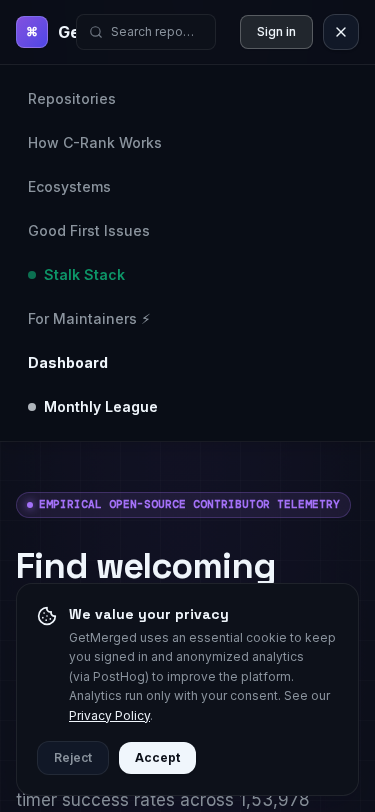
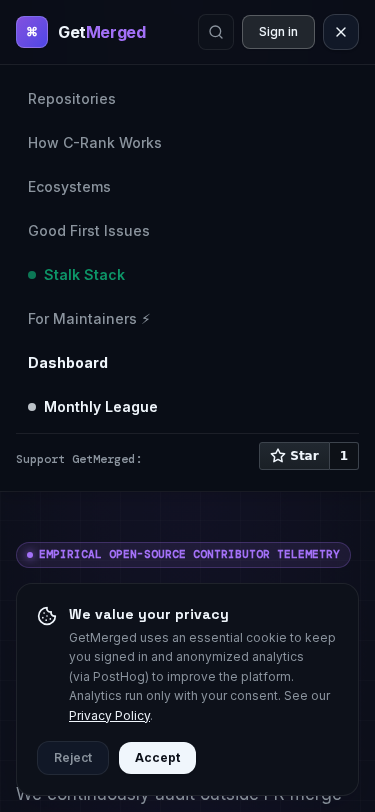
fix(ui): adopt official react-github-btn with live counts and fix mobile header branding overlap

diff --git a/frontend/src/components/Header.tsx b/frontend/src/components/Header.tsx
@@ -1,13 +1,13 @@
 "use client";
 
 import React, { useEffect, useState } from "react";
-import { Bookmark, Search, Menu, X, Star } from "lucide-react";
+import { Bookmark, Search, Menu, X } from "lucide-react";
 import { motion, AnimatePresence } from "framer-motion";
 import Link from "next/link";
 import { API_BASE_URL } from "@/lib/api";
 import { User } from "@/types/opendoor";
 import { NotificationBell } from "@/components/NotificationBell";
-import { GithubIcon } from "@/components/icons";
+import GitHubButton from "react-github-btn";
 import posthog from "posthog-js";
 import { AuthModal } from "@/components/AuthModal";
 
@@ -100,7 +100,7 @@ export function Header({ showSearchBar, onOpenSearch, searchQuery, placeholderTe
 
         {/* Floating Search Button */}
         {isSearchVisible && (
-          <div className="flex-1 min-w-[140px] sm:min-w-[180px] md:min-w-[220px] max-w-[280px] mx-2 shrink-0 sm:shrink">
+          <div className="hidden sm:flex flex-1 min-w-[140px] md:min-w-[180px] max-w-[280px] mx-2 shrink">
             <button
               type="button"
               onClick={handleOpenSearch}
@@ -112,7 +112,7 @@ export function Header({ showSearchBar, onOpenSearch, searchQuery, placeholderTe
                   {displayQuery || placeholderText || "Search repositories..."}
                 </span>
               </div>
-              <kbd className="hidden sm:inline-flex items-center gap-0.5 border border-[var(--border-subtle)] bg-[#21262D] px-1.5 py-0.5 rounded text-[10px] text-[var(--text-secondary)] font-mono shrink-0">
+              <kbd className="hidden md:inline-flex items-center gap-0.5 border border-[var(--border-subtle)] bg-[#21262D] px-1.5 py-0.5 rounded text-[10px] text-[var(--text-secondary)] font-mono shrink-0">
                 <span>⌘</span>K
               </kbd>
             </button>
@@ -120,20 +120,32 @@ export function Header({ showSearchBar, onOpenSearch, searchQuery, placeholderTe
         )}
 
         {/* Right Actions */}
-        <div className="flex items-center gap-2.5 shrink-0">
-          {/* Star on GitHub Button */}
-          <a
-            href="https://github.com/abhisheksoni27/getmerged"
-            target="_blank"
-            rel="noopener noreferrer"
-            title="Star GetMerged on GitHub"
-            onClick={() => posthog.capture("github_star_clicked", { source: "header" })}
-            className="hidden sm:inline-flex items-center gap-1.5 h-8 px-2.5 rounded-lg border border-[var(--border-subtle)] bg-[#0D111A] hover:bg-[#161B22] hover:border-[var(--border-strong)] text-[var(--text-secondary)] hover:text-[var(--text-primary)] transition-all text-xs font-mono group shrink-0"
-          >
-            <GithubIcon className="h-3.5 w-3.5" />
-            <span>Star</span>
-            <Star className="h-3 w-3 text-[#E3B341] fill-[#E3B341] group-hover:scale-110 transition-transform" />
-          </a>
+        <div className="flex items-center gap-2 sm:gap-2.5 shrink-0">
+          {/* Mobile Search Icon Button */}
+          {isSearchVisible && (
+            <button
+              type="button"
+              onClick={handleOpenSearch}
+              aria-label="Search repositories"
+              className="sm:hidden flex items-center justify-center h-9 w-9 rounded-lg border border-[var(--border-subtle)] bg-[#0D111A] text-[var(--text-secondary)] hover:text-[var(--text-primary)] transition-colors"
+            >
+              <Search className="h-4 w-4" />
+            </button>
+          )}
+
+          {/* Official GitHub Star Button (with live automatic count) */}
+          <div className="hidden sm:flex items-center h-8">
+            <GitHubButton
+              href="https://github.com/abhisheksoni27/getmerged"
+              data-color-scheme="no-preference: dark; light: dark; dark: dark;"
+              data-icon="octicon-star"
+              data-size="large"
+              data-show-count="true"
+              aria-label="Star abhisheksoni27/getmerged on GitHub"
+            >
+              Star
+            </GitHubButton>
+          </div>
 
           {authLoading ? (
             <div className="h-8 w-16 sm:w-20 rounded-lg bg-[var(--bg-elevated)] animate-pulse border border-[var(--border-subtle)]" />
@@ -270,22 +282,19 @@ export function Header({ showSearchBar, onOpenSearch, searchQuery, placeholderTe
                 <span className="w-2 h-2 rounded-full bg-[var(--color-primary)] animate-pulse" />
                 Monthly League
               </Link>
-              <a
-                href="https://github.com/abhisheksoni27/getmerged"
-                target="_blank"
-                rel="noopener noreferrer"
-                onClick={() => {
-                  posthog.capture("github_star_clicked", { source: "mobile_menu" });
-                  setMobileMenuOpen(false);
-                }}
-                className="px-3 py-2 rounded-lg border border-[var(--border-subtle)] bg-[#0D111A] text-[var(--text-primary)] font-medium transition-colors flex items-center justify-between"
-              >
-                <div className="flex items-center gap-2">
-                  <GithubIcon className="h-4 w-4" />
-                  <span>Star on GitHub</span>
-                </div>
-                <Star className="h-3.5 w-3.5 text-[#E3B341] fill-[#E3B341]" />
-              </a>
+              <div className="pt-2 border-t border-[var(--border-subtle)] flex items-center justify-between">
+                <span className="text-xs text-[var(--text-secondary)] font-mono">Support GetMerged:</span>
+                <GitHubButton
+                  href="https://github.com/abhisheksoni27/getmerged"
+                  data-color-scheme="no-preference: dark; light: dark; dark: dark;"
+                  data-icon="octicon-star"
+                  data-size="large"
+                  data-show-count="true"
+                  aria-label="Star abhisheksoni27/getmerged on GitHub"
+                >
+                  Star
+                </GitHubButton>
+              </div>
             </nav>
           </motion.div>
         )}
